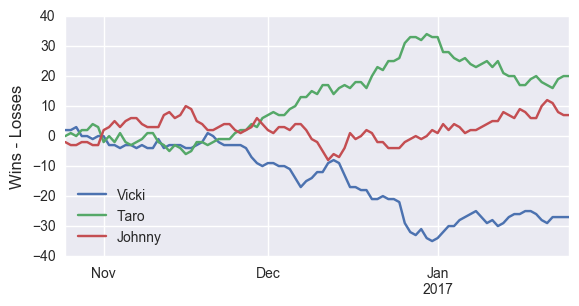
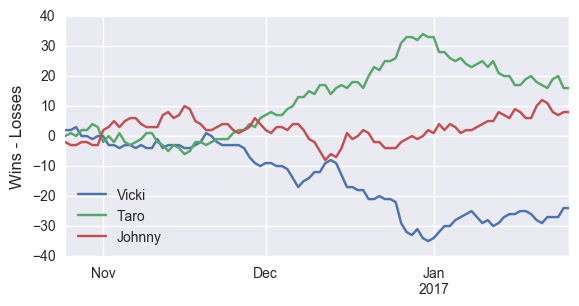
update 1/26

diff --git a/index.html b/index.html
@@ -35,7 +35,7 @@
 <a id="the-bet-is-on" class="anchor" href="#the-bet-is-on" aria-hidden="true"><span aria-hidden="true" class="octicon octicon-link"></span></a>The bet is on.</h1>
 
 <h1>
-<a id="current-winner-of-2016-17-season" class="anchor" href="#current-winner-of-2016-17-season" aria-hidden="true"><span aria-hidden="true" class="octicon octicon-link"></span></a>Current winner of 2016-17 Season (as of 1/25/2017):</h1>
+<a id="current-winner-of-2016-17-season" class="anchor" href="#current-winner-of-2016-17-season" aria-hidden="true"><span aria-hidden="true" class="octicon octicon-link"></span></a>Current winner of 2016-17 Season (as of 1/26/2017):</h1>
 
 <h2>
 <a id="none" class="anchor" href="#none" aria-hidden="true"><span aria-hidden="true" class="octicon octicon-link"></span></a><strong>Taro</strong>
@@ -44,23 +44,23 @@
 <h2>
 <a id="johnny" class="anchor" href="Johnny.html" aria-hidden="true"><span aria-hidden="true" class="octicon octicon-link"></span>Johnny</a></h2>
 
-<p>Wins: 231<br>
-Losses: 224<br>
-Remaining wins available: 313</p>
+<p>Wins: 234<br>
+Losses: 226<br>
+Remaining wins available: 308</p>
 
 <h2>
 <a id="taro" class="anchor" href="Taro.html" aria-hidden="true"><span aria-hidden="true" class="octicon octicon-link"></span>Taro</a></h2>
 
-<p>Wins: 236<br>
-Losses: 216<br>
-Remaining wins available: 313</p>
+<p>Wins: 238<br>
+Losses: 222<br>
+Remaining wins available: 306</p>
 
 <h2>
 <a id="vicki" class="anchor" href="Vicki.html" aria-hidden="true"><span aria-hidden="true" class="octicon octicon-link"></span>Vicki</a></h2>
 
-<p>Wins: 211<br>
-Losses: 238<br>
-Remaining wins available: 317</p>
+<p>Wins: 216<br>
+Losses: 240<br>
+Remaining wins available: 310</p>
 
 <img src='pythoncode/win_percent.png' alt='Winning Percentage Over Time'>
 <h1>

diff --git a/Taro.html b/Taro.html
@@ -35,9 +35,9 @@
 
 <h2>Taro</h2>
 
-<p>Wins: 236<br>
-Losses: 216<br>
-Remaining wins available: 313</p>
+<p>Wins: 238<br>
+Losses: 222<br>
+Remaining wins available: 306</p>
 
 <h2> Current teams </h2>
 <table border="1">
@@ -50,26 +50,26 @@ Remaining wins available: 313</p>
 <tr>
 <td>Knicks</td>
 <td>20</td>
-<td>26</td>
-<td>36</td>
+<td>27</td>
+<td>35</td>
 </tr>
 <tr>
 <td>Nets</td>
 <td>9</td>
-<td>35</td>
-<td>38</td>
+<td>36</td>
+<td>37</td>
 </tr>
 <tr>
 <td>Thunder</td>
-<td>26</td>
+<td>27</td>
 <td>19</td>
-<td>37</td>
+<td>36</td>
 </tr>
 <tr>
 <td>Raptors</td>
 <td>28</td>
-<td>17</td>
-<td>37</td>
+<td>18</td>
+<td>36</td>
 </tr>
 <tr>
 <td>Spurs</td>
@@ -80,14 +80,14 @@ Remaining wins available: 313</p>
 <tr>
 <td>Hornets</td>
 <td>23</td>
-<td>22</td>
-<td>37</td>
+<td>23</td>
+<td>36</td>
 </tr>
 <tr>
 <td>Rockets</td>
 <td>34</td>
-<td>14</td>
-<td>34</td>
+<td>15</td>
+<td>33</td>
 </tr>
 <tr>
 <td>Wizards</td>
@@ -97,15 +97,15 @@ Remaining wins available: 313</p>
 </tr>
 <tr>
 <td>Kings</td>
-<td>17</td>
+<td>18</td>
 <td>27</td>
-<td>38</td>
+<td>37</td>
 </tr>
 <tr>
 <td>Pelicans</td>
 <td>18</td>
-<td>27</td>
-<td>37</td>
+<td>28</td>
+<td>36</td>
 </tr>
 </table>
 

diff --git a/Vicki.html b/Vicki.html
@@ -35,9 +35,9 @@
 
 <h2>Vicki</h2>
 
-<p>Wins: 211<br>
-Losses: 238<br>
-Remaining wins available: 317</p>
+<p>Wins: 216<br>
+Losses: 240<br>
+Remaining wins available: 310</p>
 
 <h2> Current teams </h2>
 <table border="1">
@@ -49,45 +49,45 @@ Remaining wins available: 317</p>
 </tr>
 <tr>
 <td>Heat</td>
-<td>15</td>
+<td>16</td>
 <td>30</td>
-<td>37</td>
+<td>36</td>
 </tr>
 <tr>
 <td>Mavericks</td>
-<td>15</td>
+<td>16</td>
 <td>29</td>
-<td>38</td>
+<td>37</td>
 </tr>
 <tr>
 <td>Trail Blazers</td>
-<td>19</td>
+<td>20</td>
 <td>27</td>
-<td>36</td>
+<td>35</td>
 </tr>
 <tr>
 <td>Cavaliers</td>
 <td>30</td>
-<td>13</td>
-<td>39</td>
+<td>14</td>
+<td>38</td>
 </tr>
 <tr>
 <td>Bulls</td>
 <td>23</td>
-<td>23</td>
-<td>36</td>
+<td>24</td>
+<td>35</td>
 </tr>
 <tr>
 <td>76ers</td>
-<td>16</td>
+<td>17</td>
 <td>27</td>
-<td>39</td>
+<td>38</td>
 </tr>
 <tr>
 <td>Grizzlies</td>
-<td>26</td>
+<td>27</td>
 <td>20</td>
-<td>36</td>
+<td>35</td>
 </tr>
 <tr>
 <td>Clippers</td>

diff --git a/Johnny.html b/Johnny.html
@@ -35,9 +35,9 @@
 
 <h2>Johnny</h2>
 
-<p>Wins: 231<br>
-Losses: 224<br>
-Remaining wins available: 313</p>
+<p>Wins: 234<br>
+Losses: 226<br>
+Remaining wins available: 308</p>
 
 <h2> Current teams </h2>
 <table border="1">
@@ -50,14 +50,14 @@ Remaining wins available: 313</p>
 <tr>
 <td>Bucks</td>
 <td>21</td>
-<td>23</td>
-<td>38</td>
+<td>24</td>
+<td>37</td>
 </tr>
 <tr>
 <td>Warriors</td>
-<td>38</td>
+<td>39</td>
 <td>7</td>
-<td>37</td>
+<td>36</td>
 </tr>
 <tr>
 <td>Timberwolves</td>
@@ -67,15 +67,15 @@ Remaining wins available: 313</p>
 </tr>
 <tr>
 <td>Hawks</td>
-<td>26</td>
+<td>27</td>
 <td>19</td>
-<td>37</td>
+<td>36</td>
 </tr>
 <tr>
 <td>Celtics</td>
-<td>26</td>
+<td>27</td>
 <td>18</td>
-<td>38</td>
+<td>37</td>
 </tr>
 <tr>
 <td>Pistons</td>
@@ -98,8 +98,8 @@ Remaining wins available: 313</p>
 <tr>
 <td>Lakers</td>
 <td>16</td>
-<td>32</td>
-<td>34</td>
+<td>33</td>
+<td>33</td>
 </tr>
 <tr>
 <td>Magic</td>
